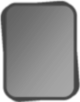
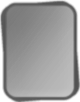
Polished animation, added images

Changed region(s): [[0.075, 0.8235, 0.925, 0.9706], [0.75, 0.0588, 0.925, 0.4706], [0.1, 0.0588, 0.2, 0.1471]]

diff --git a/gui_flashcards.py b/gui_flashcards.py
@@ -151,16 +151,16 @@ class executeGUI():
 
 	def handlePractice(self, i): # fetches the answer from the functional module, prints to the textBrowser
 		try:
-			self.functions.currentQuestion = self.functions.questions[i]
-			self.functions.currentAnswer = self.functions.answers[i]
-			
-			self.createPage("""QPushButton {background-color: blue; border-radius: 15px; border-width: 3px; border-style: solid; border-color: white;} QTextEdit {color: white; border: 0; background-color: blue}""", self.functions.currentQuestion, 1)
-			self.createPage("""QPushButton {background-color: green; border-radius: 15px; border-width: 3px; border-style: solid; border-color: white;} QTextEdit {color: white; border: 0; background-color: green}""", self.functions.currentAnswer, 2)
-			self.createPage("""QPushButton {background-color: red; border-radius: 15px; border-width: 3px; border-style: solid; border-color: white;} QTextEdit {color: white; border: 0; background-color: red}""", self.functions.currentAnswer, 3)
-			self.functions.inAnimation = True
-			self.fadeIn()
-			self.ui.stackedWidget.setCurrentIndex(1)
+			if self.functions.inPractice:
+				self.functions.currentQuestion = self.functions.questions[i]
+				self.functions.currentAnswer = self.functions.answers[i]
+				
+				self.createPage("""QPushButton {border-image: url("assets/card_front.png")} QTextEdit {color: white; border: 0; background-color: rgba(0, 0, 0, 0)}""", self.functions.currentQuestion, 1)
+				self.createPage("""QPushButton {border-image: url("assets/card_right.png")} QTextEdit {color: white; border: 0; background-color: rgba(0, 0, 0, 0)}""", self.functions.currentAnswer, 2)
+				self.createPage("""QPushButton {border-image: url("assets/card_wrong.png")} QTextEdit {color: white; border: 0; background-color: rgba(0, 0, 0, 0)}""", self.functions.currentAnswer, 3)
+				self.ui.stackedWidget.setCurrentIndex(1)
 		except IndexError:
+			self.functions.inPractice = False
 			self.percentageRight = round(self.functions.numright/len(self.functions.questions) * 100, 2)
 			if self.percentageRight < 70:
 				self.message = "You should practice these cards more."
@@ -176,7 +176,6 @@ class executeGUI():
 			self.createPage("border: 0", finished, 1)
 			self.ui.stackedWidget.setCurrentIndex(1)
 			self.functions.timer.stop()
-			self.functions.inPractice = False
 			
 	def createPage(self, styleSheet, text, index):
 		try:
@@ -218,17 +217,20 @@ class executeGUI():
 			self.createImages(QPixmap(QWidget.grab(self.ui.stackedWidget.widget(3))), 3)	
 			self.ui.stackedWidget.setCurrentIndex(1)
 			
+			
 			if inputO.lower() == self.functions.currentAnswer.lower():
 				self.functions.numright += 1
 				self.ui.numRight.setText(f"Right: {self.functions.numright}")
 				self.mainW.setMinimumSize(self.mainW.size())
 				self.mainW.setMaximumSize(self.mainW.size())
+				self.createImages(self.ui.stackedWidget.widget(2).pixmap(), 0, True)
 				self.flippingAnimation(2)
 				
 			elif inputO.lower() != self.functions.currentAnswer.lower():
 				self.ui.numWrong.setText(f"Wrong: {self.functions.i - self.functions.numright + 1}")
 				self.mainW.setMinimumSize(self.mainW.size())
 				self.mainW.setMaximumSize(self.mainW.size())
+				self.createImages(self.ui.stackedWidget.widget(3).pixmap(), 0, True)
 				self.flippingAnimation(3)
 				
 			self.ui.lineEdit.clear()
@@ -245,13 +247,13 @@ class executeGUI():
 			self.functions = deckHandler()
 			
 	def handleTimeout(self):
-		if self.functions.inPractice:
+		if not self.functions.inAnimation:
+			self.functions.inPractice = False
 			message = f"You timed out with {self.functions.i}/{len(self.functions.questions)} answered, and {self.functions.numright} correct. Hit enter to quit."
 			self.createPage("border: 0", message, 1)
 			self.ui.stackedWidget.setCurrentIndex(1)
-			self.functions.inPractice = False
 		
-	def createImages(self, pixmap, index): # creates a pixmap image for both the front and back of the cards
+	def createImages(self, pixmap, index, proceed=False): # creates a pixmap image for both the front and back of the cards
 		self.face = pixmap
 		
 		self.rounded = QPixmap(self.face.size())
@@ -260,13 +262,22 @@ class executeGUI():
 		painter.setRenderHint(QPainter.Antialiasing)
 		painter.setBrush(QBrush(self.face))
 		painter.setPen(Qt.NoPen)
-		painter.drawRoundedRect(self.face.rect(), 15, 15)
+		painter.drawRoundedRect(self.face.rect(), 35, 35)
 		
-		self.ui.stackedWidget.widget(index).deleteLater()
-		self.ui.stackedWidget.removeWidget(self.ui.stackedWidget.widget(index))
-		self.ui.stackedWidget.insertWidget(index, QLabel())
-		self.ui.stackedWidget.widget(index).setPixmap(self.rounded)
-		self.ui.stackedWidget.widget(index).setScaledContents(True)
+		if proceed == False:
+			self.ui.stackedWidget.widget(index).deleteLater()
+			self.ui.stackedWidget.removeWidget(self.ui.stackedWidget.widget(index))
+			self.ui.stackedWidget.insertWidget(index, QLabel())
+			self.ui.stackedWidget.widget(index).setPixmap(self.rounded)
+			self.ui.stackedWidget.widget(index).setScaledContents(True)
+		else:
+			self.newImageCont = QLabel(self.ui.tab_2)
+			self.newImageCont.setAutoFillBackground(False)
+			self.newImageCont.setMinimumHeight(267)
+			self.newImageCont.setMinimumWidth(200)
+			self.newImageCont.setStyleSheet("QLabel {border-radius: 35px}")
+			self.newImageCont.setPixmap(self.rounded)
+			self.newImageCont.setScaledContents(True)
 			
 	def flippingAnimation(self, index):
 		self.shrink = QPropertyAnimation(self.ui.stackedWidget, b"size")
@@ -299,18 +310,22 @@ class executeGUI():
 		self.flipForward = QParallelAnimationGroup()
 		self.flipForward.addAnimation(self.expand)
 		self.flipForward.addAnimation(self.moveBack)
+		self.flipForward.finished.connect(self.newImageCont.show)
+		self.flipForward.finished.connect(self.newCard)
 		
-		self.slide = QPropertyAnimation(self.ui.stackedWidget, b"pos")
+		self.slide = QPropertyAnimation(self.newImageCont, b"pos")
 		self.slide.setStartValue(QPoint(self.ui.stackedWidget.geometry().x(), self.ui.stackedWidget.geometry().y()))
 		self.slide.setEndValue(QPoint(self.ui.discardPile.geometry().x(), self.ui.discardPile.geometry().y()))
 		self.slide.setEasingCurve(QEasingCurve.InOutCubic)
 		self.slide.setDuration(500)
 		self.slide.finished.connect(self.resetSlide)
+		
 
 		self.fullFlip = QSequentialAnimationGroup()
 		self.fullFlip.addAnimation(self.flipBack)
 		self.fullFlip.addAnimation(self.flipForward)
 		self.fullFlip.addAnimation(self.slide)
+		self.fullFlip.finished.connect(self.turnOffAnimation)
 		
 		self.fullFlip.start()
 	
@@ -320,29 +335,18 @@ class executeGUI():
 		self.mainW.setMinimumSize(600, 500)
 	
 	def resetSlide(self):
-		self.functions.inAnimation = False
-		self.mainW.setMaximumSize(16777215, 16777215)
-		self.mainW.setMinimumSize(600, 500)
 		try:
 			self.ui.discardPile.widget(1).deleteLater()
 			self.ui.discardPile.removeWidget(self.ui.discard.widget(1))
 		except:
 			pass
-		self.ui.discardPile.insertWidget(1, self.ui.stackedWidget.currentWidget())
-		self.ui.discardPile.setCurrentIndex(1)	
+		self.ui.discardPile.insertWidget(1, self.newImageCont)
+		self.ui.discardPile.setCurrentIndex(1)
+		
+	def newCard(self):
 		self.ui.stackedWidget.setCurrentIndex(0)
 		self.ui.lineEdit.clear()
 		self.handlePractice(self.functions.i)
-		
-	def fadeIn(self):
-		self.effect = QGraphicsOpacityEffect(self.ui.stackedWidget)
-		self.ui.stackedWidget.setGraphicsEffect(self.effect)
-		self.grow = QPropertyAnimation(self.effect, b"opacity")
-		self.grow.setStartValue(0)
-		self.grow.setEndValue(1)
-		self.grow.setDuration(400)
-		self.grow.start()
-		self.grow.finished.connect(self.turnOffAnimation)
 	
 	
 	# HANDLES TABLEVIEW on TAB 3
